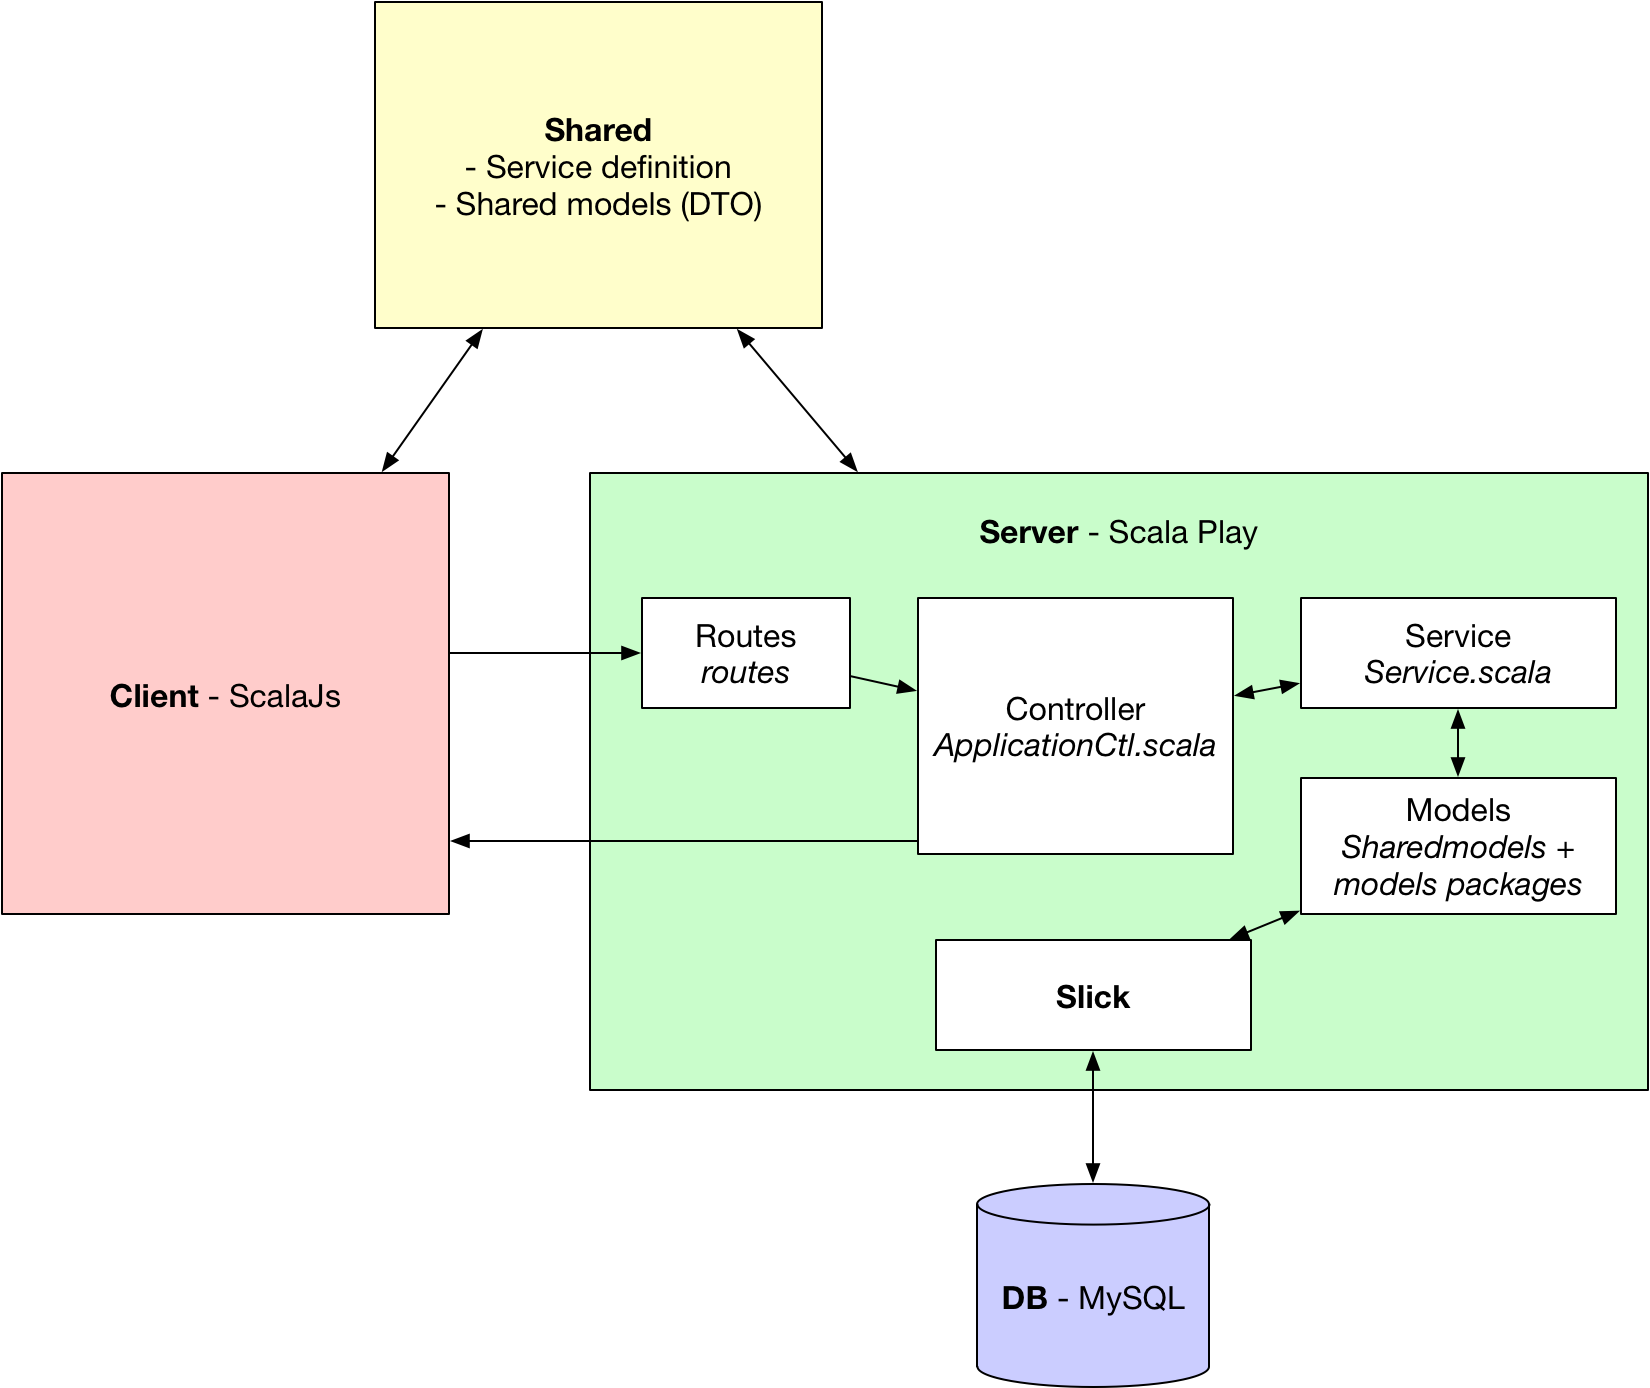
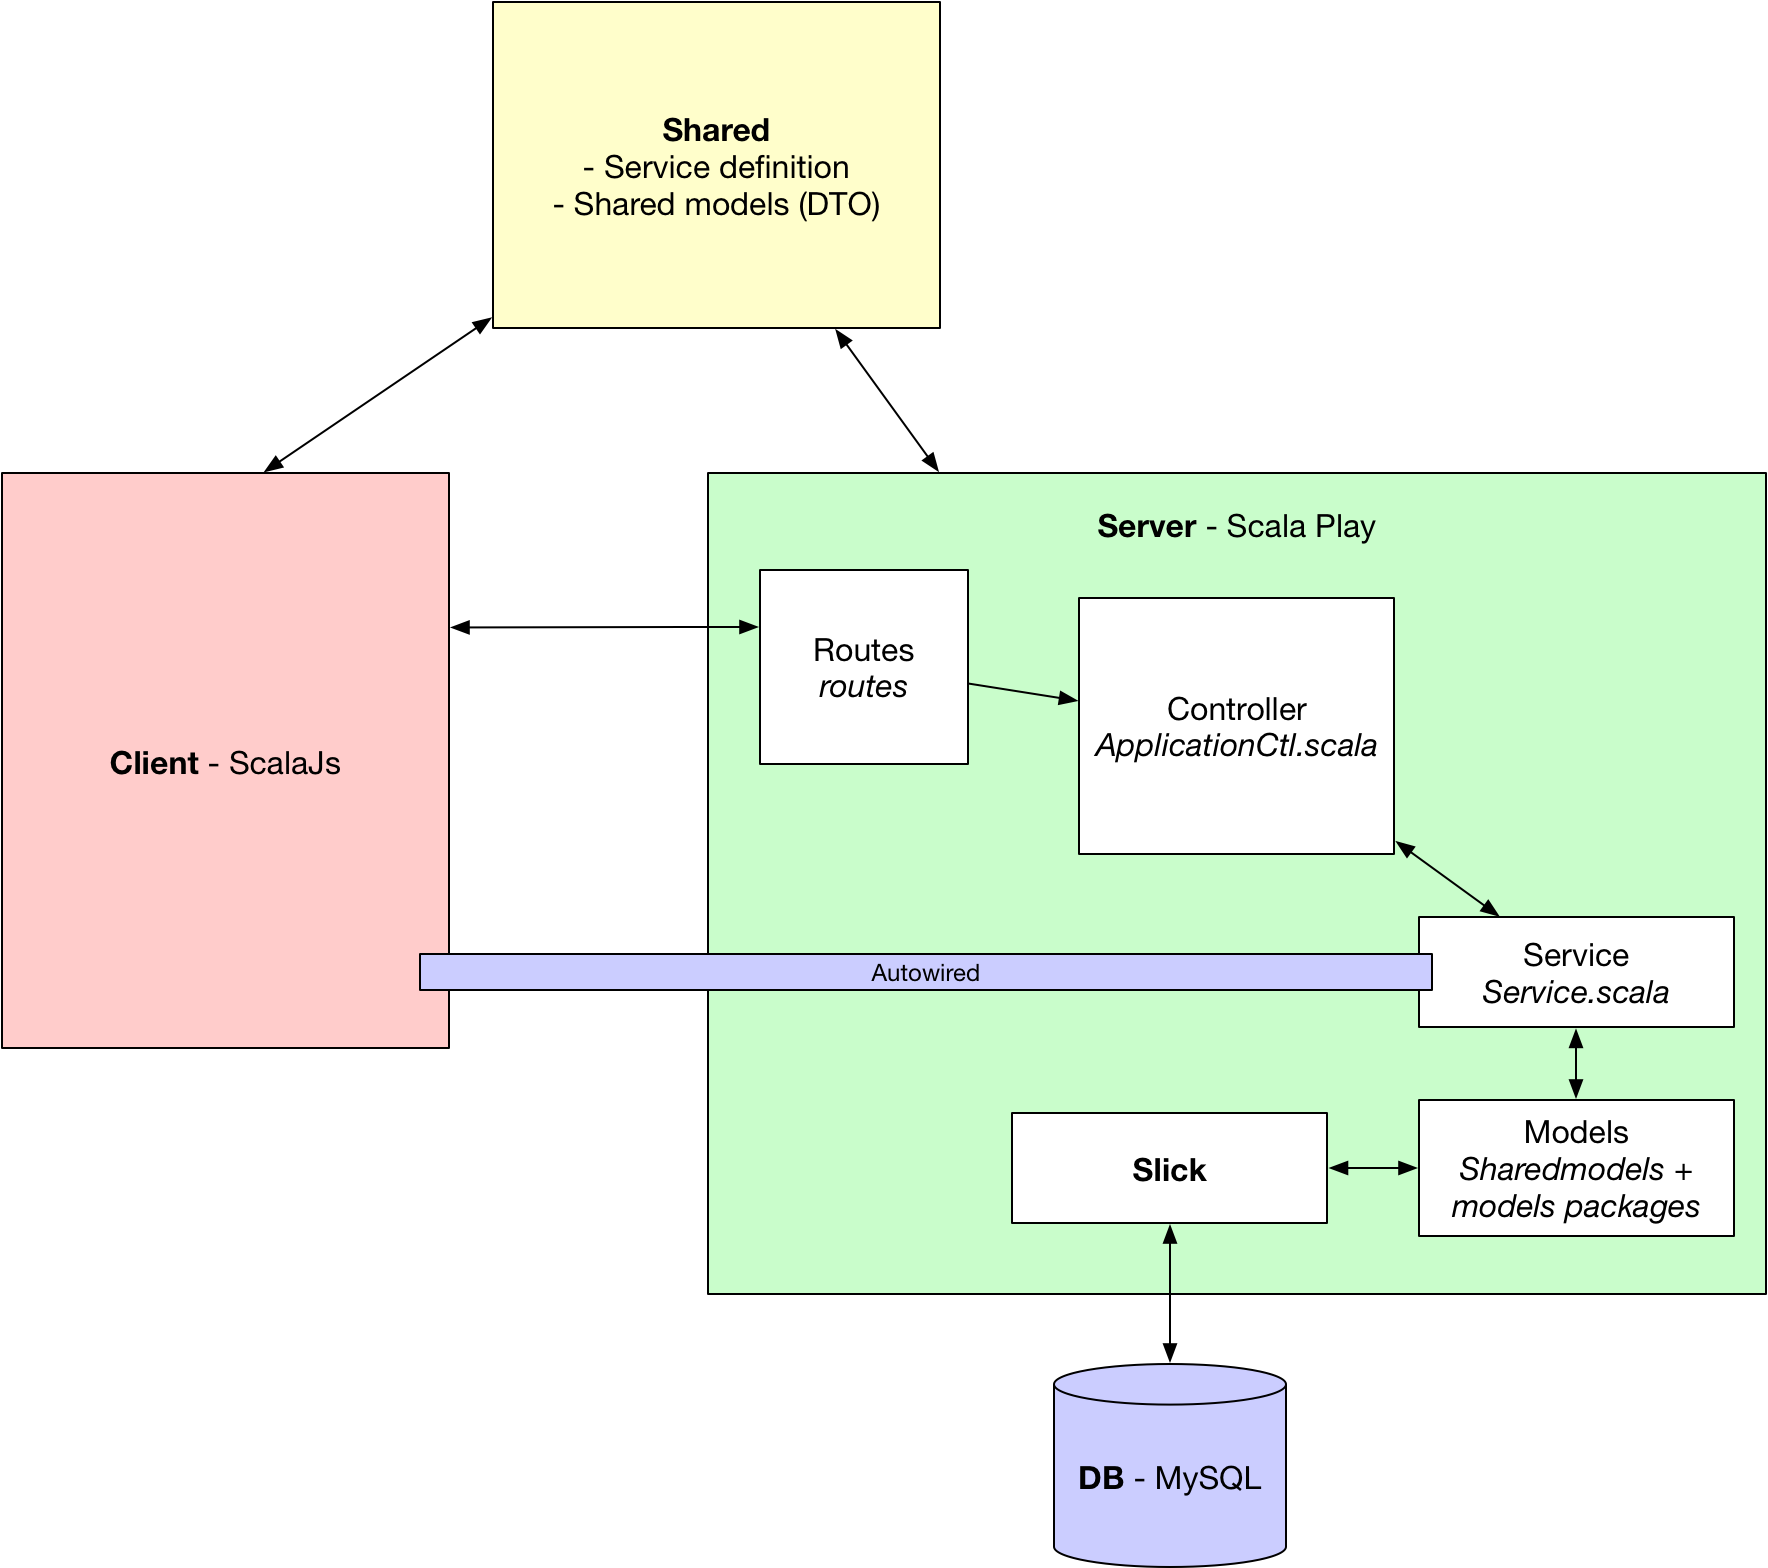
readme

diff --git a/README.md b/README.md
@@ -27,7 +27,6 @@ Run a MySQL server: `docker run -p 3306:3306 -e MYSQL_ROOT_PASSWORD=root -e MYSQ
 
 You can connect to the server with MySQL client: `docker run -it mysql:5 mysql -h 127.0.0.1` (host depending your Docker configuration).
 
-
 ### with Intellij (2017.1.4)
 Clone this repo, open it with the IDE and execute the `server/run` config. Then browse at `localhost:9000`.
 
@@ -42,7 +41,26 @@ In addition to usual architectures, there is a `shared` folder containing an abs
 
 ![Architecture](doc/architecture.png)
 
-### Database modelling
+### Communication
+
+All communications between the client and the server use Autowire, a library that allow to simply call method on services from client to server instead of making XHR requests.
+
+Our main service contains 5 methods :
+- `getActivities()` returning all available activities
+- `getLevels()` returning all available levels
+- `getLocations()` returning all available locations
+- `getBuddies(activity: String, level: String, location: String)` returning buddies (with optional filters)
+- `addBuddy(...)` allowing to add a new person and directly a new buddy attached to it
+
+In fact, there is a POST XHR request, handled by Autowire that.
+It will call the right server method.
+
+The application needs only two routes :
+- The main route allowing to load the html page
+- A `services` route that will be used by Autowire for communications
+
+### Database
+
 Data are stored in a MySQL Database. The database is created and populated - if not already existing - by the *Scala Play database evolutions* plugin when the server launches.
 
 The `server/conf/evolutions/default/1.sql` contains the table creation and database population script. This file is automatically called by the plugin. Note that the package and file notation must match this specific syntax. For other scripts, we would have had a `2.sql`, `3.sql`, ... and for other databases `evolutions/anotherdbname/...`. These can be configured in `server/conf/evolutions/applicaion.conf`
@@ -62,58 +80,12 @@ class LocationTableDef(tag: Tag) extends Table[Location](tag, "location") {
 }
 ```
 
-### REST API
-Endpoints:
-- Get views and assets
-    - **URL**  /
-    - **Method** GET
-    - **URL Params** None
-    - **Data Params** None
-    - **Success Response** 200 Ok
-        - **Content** views and assets
-    - **Error Response** 404 Not Found
-- Get activities
-    - **URL**  /activities
-    - **Method** GET
-    - **URL Params** None
-    - **Data Params** None
-    - **Success Response** 200 Ok
-        - **Content** [{"id": 1, "name": "Football"}]
-        - **Type** Application/json
-    - **Error Response** 404 Not Found
-- Get levels
-    - **URL**  /levels
-    - **Method** GET
-    - **URL Params** None
-    - **Data Params** None
-    - **Success Response** 200 Ok
-        - **Content** [{"id": 1, "name": "Beginner"}]
-        - **Type** Application/json
-    - **Error Response** 404 Not Found
-- Get locations
-    - **URL**  /locations
-    - **Method** GET
-    - **URL Params** None
-    - **Data Params** None
-    - **Success Response** 200 Ok
-        - **Content** [{"id": 1, "city": "Yverdon"}]
-        - **Type** Application/json
-    - **Error Response** 404 Not Found
-- Get buddies
-    - **URL**  /buddies
-    - **Method** GET
-    - **URL Params** activity(String), level(String), city(String)
-    - **Data Params** None
-    - **Success Response** 200 Ok
-        - **Content** [{"id": 1, "firstname": "John", "lastname": "Smith", "description": "Avaialable at noon", "email": "johnsmith@smith.com", "birthdate": "1990-12-18", "activity": "Football", "level": "Beginner", "city": "Yverdon"}]
-        - **Type** Application/json
-    - **Error Response** 404 Not Found
-
 ### Application lifecycle
+
 1. Server creation
 2. Database creation and seeding with evolutions
 3. Client first GET request to retrieve views and assets (in `server/public/`)
-4. Client GET request to retrieve all buddies, activities, levels, and cities
+4. Client GET request to retrieve all activities, levels, cities and buddies
 5. Client-Server communications depending of user interactions
 
 The first client request is to get the views (html) and all assets (fonts, images, css, js). This is mandatory to have the structure and visual aspect of the app.
@@ -121,8 +93,6 @@ The first client request is to get the views (html) and all assets (fonts, image
 Then requests to get all buddies, activities, levels, and cities are executed to display these data on the client side. We insert the html content built with ScalaJs in the DOM by getting the specific html tag id, which is defined on server side. This method results in a high coupling between client and server.
 
 Finally, the user searchs for buddies by choosing an appropriate activity, level, and/or city. These actions result in as many GET requests as the search button is clicked.
-
-![UML](doc/requests.png)
 
 ### Authors
 [Sébastien Richoz](mailto:sebastien.richoz1@heig-vd.ch), [Damien Rochat](mailto:damien.rochat@heig-vd.ch)
